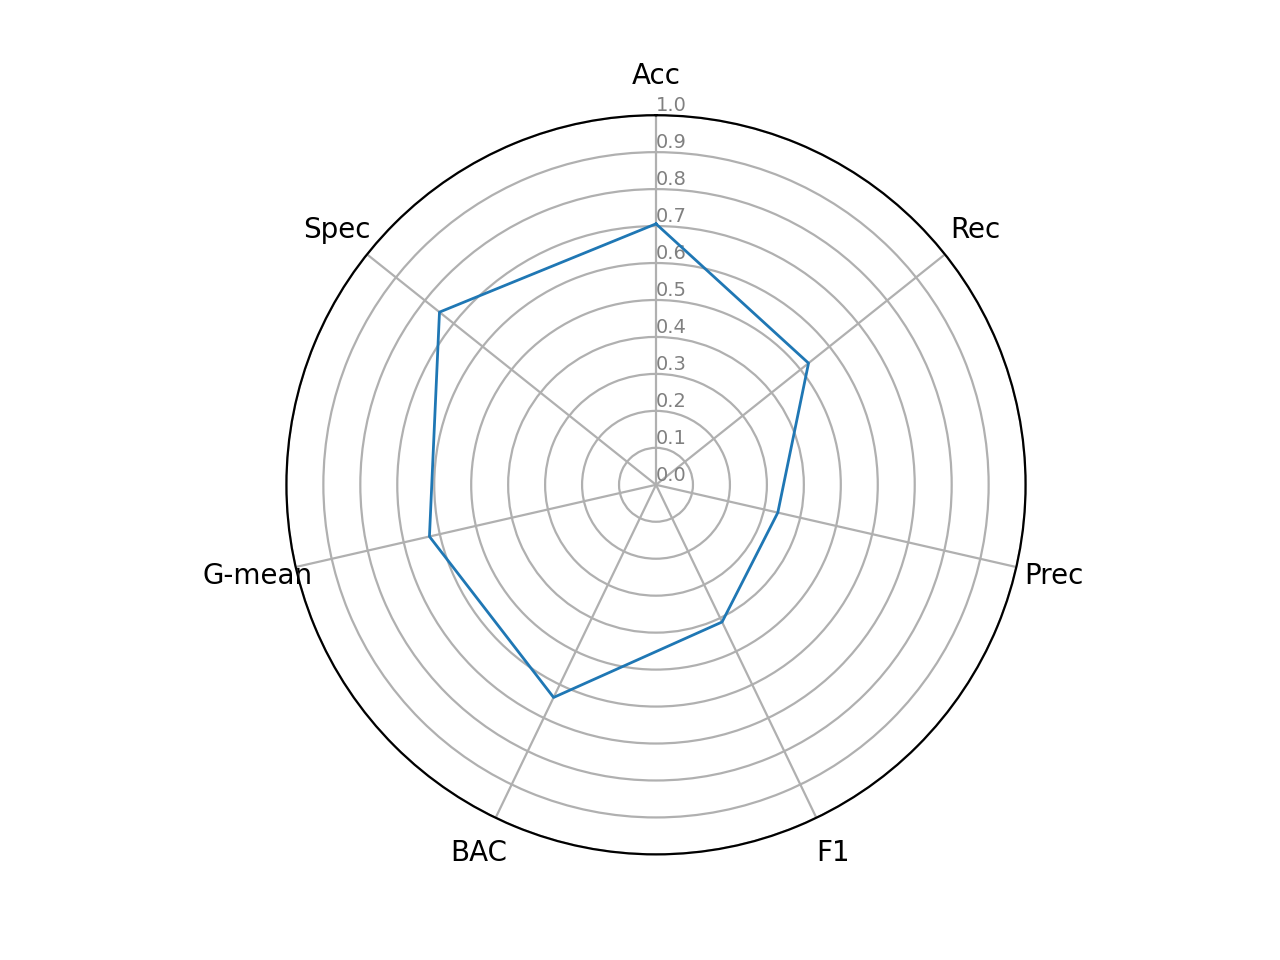
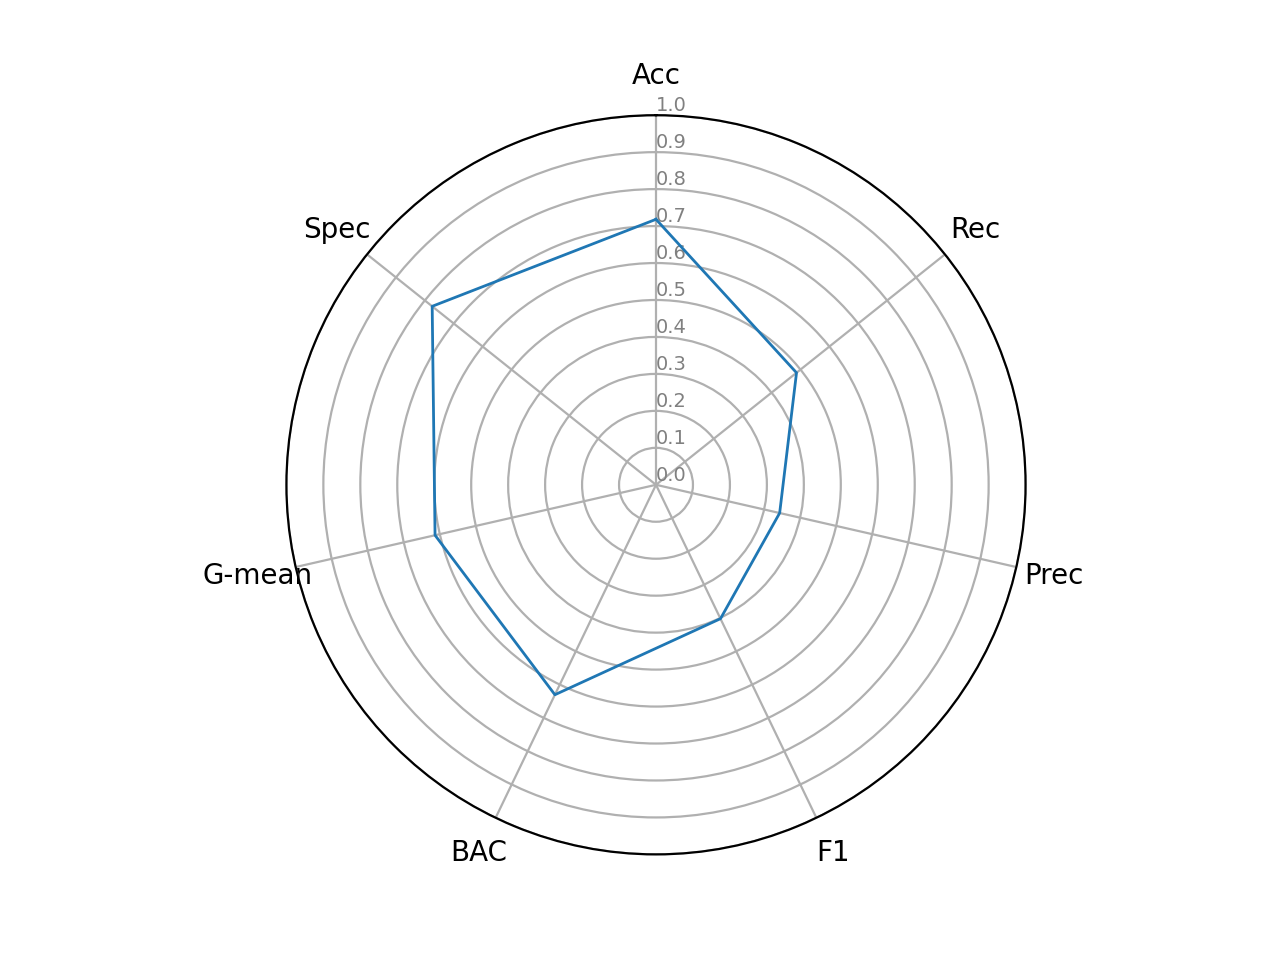
cmp 600

diff --git a/eksperyment1.py b/eksperyment1.py
@@ -70,7 +70,7 @@ def apply_pca(features, n_components=50):
 features = extract_hog_features(images)
 print(f"features {features.shape}")
 # Apply PCA to HOG features
-reduced_features = apply_pca(features, n_components=150)
+reduced_features = apply_pca(features, n_components=600)
 print(f"reduced {reduced_features.shape}")
 # Combine reduced features with labels and save the dataset
 dataset = np.column_stack((reduced_features, labels))
